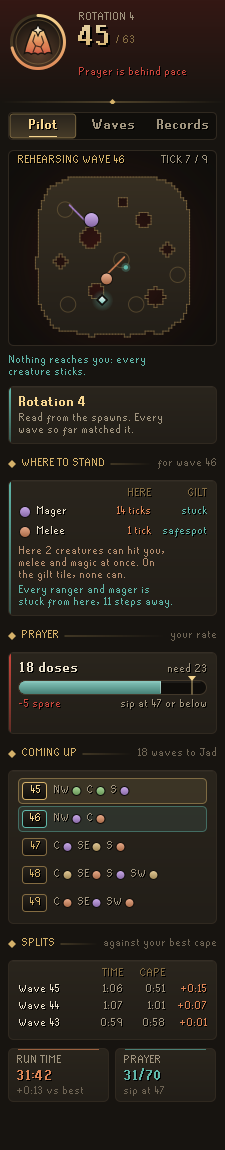
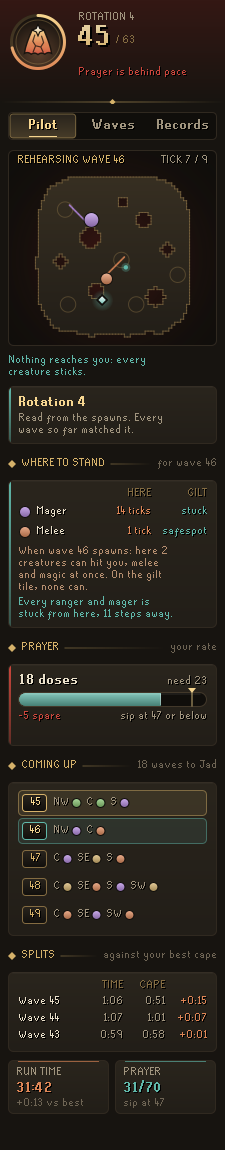
Say the comparison is for when the next wave spawns, and test each headline

diff --git a/src/test/java/com/codex/fightcaves/core/RehearsalTest.java b/src/test/java/com/codex/fightcaves/core/RehearsalTest.java
@@ -133,4 +133,21 @@ public class RehearsalTest
 		assertNull(Compare.of(a, a));
 		assertNull(Compare.of(null, b));
 	}
+
+	@Test
+	public void headlinesForEachKindOfGain()
+	{
+		List<StandPlanner.Foe> one = Collections.singletonList(new StandPlanner.Foe(Monster.TZ_KIH, 3, 3));
+		// Same one creature reaches both tiles, but later from further away.
+		StandPlanner.Spot near = StandPlanner.score(FLOOR, one, 6, 6, 0, 1);
+		StandPlanner.Spot far = StandPlanner.score(FLOOR, one, 25, 25, 0, 1);
+		assertTrue(Compare.headline(near, far), Compare.headline(near, far).startsWith("The gilt tile buys time: the first hit lands on tick"));
+		List<StandPlanner.Foe> two = Arrays.asList(
+			new StandPlanner.Foe(Monster.KET_ZEK, 4, 20),
+			new StandPlanner.Foe(Monster.TZ_KIH, 9, 21));
+		StandPlanner.Spot mixed = StandPlanner.score(FLOOR, two, 10, 22, 0, 7);
+		assertEquals(2, Compare.styles(mixed).size());
+		assertEquals("Here 2 creatures can hit you, melee and magic at once. On the gilt tile, none can.",
+			Compare.headline(mixed, StandPlanner.score(FLOOR, Collections.singletonList(new StandPlanner.Foe(Monster.KET_ZEK, 4, 13)), 17, 14, 0, 7)));
+	}
 }

diff --git a/src/main/java/com/codex/fightcaves/ui/PilotPanel.java b/src/main/java/com/codex/fightcaves/ui/PilotPanel.java
@@ -269,7 +269,8 @@ public class PilotPanel extends PluginPanel
 			StackPanel foots = new StackPanel(3, 0);
 			if (view.compare != null)
 			{
-				foots.add(Ui.wrapped(view.compare.getHeadline(), Theme.small(), Theme.mix(Theme.TEXT_MUTED, Theme.EMBER, 0.35), WIDTH - 40));
+				String why = next ? "When wave " + shown + " spawns: " + lowerFirst(view.compare.getHeadline()) : view.compare.getHeadline();
+				foots.add(Ui.wrapped(why, Theme.small(), Theme.mix(Theme.TEXT_MUTED, Theme.EMBER, 0.35), WIDTH - 40));
 			}
 			foots.add(Ui.wrapped(foot + ".", Theme.small(), view.stand.safe ? Theme.TEAL : Theme.TEXT_FAINT, WIDTH - 40));
 			card.add(foots, BorderLayout.SOUTH);
@@ -405,6 +406,11 @@ public class PilotPanel extends PluginPanel
 		card.add(Ui.wrapped(text, Theme.small(), Theme.TEXT_MUTED, WIDTH - 40), BorderLayout.CENTER);
 		card.accent(Theme.TEAL);
 		return card;
+	}
+
+	private static String lowerFirst(String s)
+	{
+		return s.isEmpty() ? s : Character.toLowerCase(s.charAt(0)) + s.substring(1);
 	}
 
 	private static String join(List<Integer> list)

diff --git a/src/test/java/com/codex/fightcaves/core/SplitsTest.java b/src/test/java/com/codex/fightcaves/core/SplitsTest.java
@@ -72,6 +72,9 @@ public class SplitsTest
 	{
 		List<Logbook.Run> runs = Collections.singletonList(run(Logbook.Result.CAPE, 63, 50));
 		assertEquals(Integer.valueOf(-20), Splits.versusPb(runs, 3, 130));
+		// A faster run that died is not the cape being raced.
+		List<Logbook.Run> withFall = Arrays.asList(run(Logbook.Result.CAPE, 63, 50), run(Logbook.Result.DIED, 20, 30));
+		assertEquals(Integer.valueOf(-20), Splits.versusPb(withFall, 3, 130));
 		assertNull(Splits.versusPb(Collections.emptyList(), 3, 130));
 		assertNull(Splits.versusPb(runs, 0, 0));
 	}
